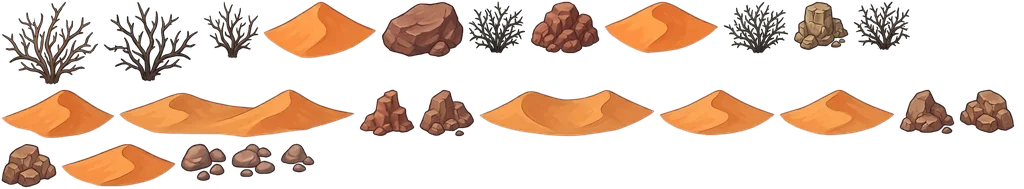
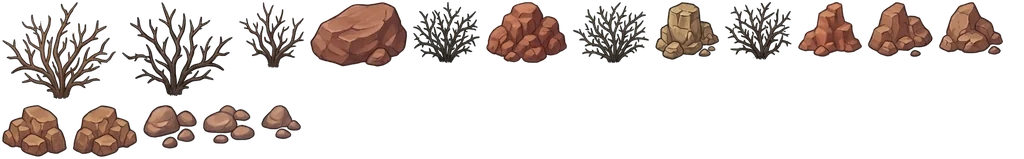
Desert: much emptier (many hexes bare sand), its hills a dune each in the sand's colour with nothing on it; cutter --only and --tint
Claude-Session: https://claude.ai/code/session_014mPV2zL44TcDQaUfxc49uR

diff --git a/tools/anchors.html b/tools/anchors.html
@@ -7,7 +7,7 @@
 <link rel="stylesheet" href="https://fonts.googleapis.com/css2?family=Fredoka:wght@500;600;700&family=Atkinson+Hyperlegible:wght@400;700&display=swap">
 <!-- assets:start -->
 <link rel="stylesheet" href="../css/style.css?v=f3684a6442">
-<script type="importmap">{ "imports": { "../js/actions.js": "../js/actions.js?v=64dcea9537", "../js/alarm.js": "../js/alarm.js?v=b19eb6fe5c", "../js/art.js": "../js/art.js?v=0538f83fe7", "../js/clock.js": "../js/clock.js?v=98108f9b2e", "../js/cloud-config.js": "../js/cloud-config.js?v=28e7772b10", "../js/cloud.js": "../js/cloud.js?v=60da263318", "../js/combat.js": "../js/combat.js?v=b541f39113", "../js/config.js": "../js/config.js?v=28de0d8871", "../js/economy.js": "../js/economy.js?v=ad990d950a", "../js/game-server.js": "../js/game-server.js?v=b3f270680e", "../js/gear-art.js": "../js/gear-art.js?v=bc05d10529", "../js/journey.js": "../js/journey.js?v=94629b9724", "../js/main.js": "../js/main.js?v=143fa79bc5", "../js/map.js": "../js/map.js?v=5133c20042", "../js/packs.js": "../js/packs.js?v=4168625cd2", "../js/reminder.js": "../js/reminder.js?v=51a9cff03b", "../js/scar-guess.js": "../js/scar-guess.js?v=08a9385c75", "../js/sheets.js": "../js/sheets.js?v=63c24fc166", "../js/state.js": "../js/state.js?v=49a32b708b", "../js/sun.js": "../js/sun.js?v=995f47ac66", "../js/sync.js": "../js/sync.js?v=91c094f19d", "../js/teams.js": "../js/teams.js?v=8588948ee6", "../js/ui/account.js": "../js/ui/account.js?v=f0937bffca", "../js/ui/baby-info.js": "../js/ui/baby-info.js?v=98fe3b0bb1", "../js/ui/board.js": "../js/ui/board.js?v=549be40ab6", "../js/ui/breeding.js": "../js/ui/breeding.js?v=57ea23cf7e", "../js/ui/drive.js": "../js/ui/drive.js?v=2e32999583", "../js/ui/fight.js": "../js/ui/fight.js?v=2c017b3e0c", "../js/ui/forge.js": "../js/ui/forge.js?v=957efcb060", "../js/ui/gate.js": "../js/ui/gate.js?v=37490a8cd1", "../js/ui/guide.js": "../js/ui/guide.js?v=ce8bb67718", "../js/ui/header.js": "../js/ui/header.js?v=28904c3f19", "../js/ui/hexdraw.js": "../js/ui/hexdraw.js?v=2b85d0aa49", "../js/ui/incubator.js": "../js/ui/incubator.js?v=58e78f0451", "../js/ui/inventory.js": "../js/ui/inventory.js?v=c00e3eb52f", "../js/ui/journey.js": "../js/ui/journey.js?v=a26c204f5d", "../js/ui/landing.js": "../js/ui/landing.js?v=21d67b8f6d", "../js/ui/maglev.js": "../js/ui/maglev.js?v=14d0e95966", "../js/ui/mapcanvas.js": "../js/ui/mapcanvas.js?v=f12ccda1f9", "../js/ui/nest.js": "../js/ui/nest.js?v=78ba99b2fc", "../js/ui/packs.js": "../js/ui/packs.js?v=b58c488a31", "../js/ui/player.js": "../js/ui/player.js?v=698de3ae4c", "../js/ui/rewards.js": "../js/ui/rewards.js?v=85c3eabb3f", "../js/ui/shop.js": "../js/ui/shop.js?v=97faf7bd8b", "../js/ui/stats.js": "../js/ui/stats.js?v=2d7890d599", "../js/ui/tabs.js": "../js/ui/tabs.js?v=e5fb239ad5", "../js/ui/team.js": "../js/ui/team.js?v=23e16a4df3", "../js/ui/water.js": "../js/ui/water.js?v=725f4b1e60", "../js/ui/words.js": "../js/ui/words.js?v=73dbb15832", "../js/ui/world.js": "../js/ui/world.js?v=0793218d84", "../js/util.js": "../js/util.js?v=41ee3067c8", "../js/vehicles.js": "../js/vehicles.js?v=2a5ea61fa4", "../js/world.js": "../js/world.js?v=6bb3e830c7", "../tools/anchors.js": "../tools/anchors.js?v=14f32bc86a" } }</script>
+<script type="importmap">{ "imports": { "../js/actions.js": "../js/actions.js?v=64dcea9537", "../js/alarm.js": "../js/alarm.js?v=b19eb6fe5c", "../js/art.js": "../js/art.js?v=0538f83fe7", "../js/clock.js": "../js/clock.js?v=98108f9b2e", "../js/cloud-config.js": "../js/cloud-config.js?v=28e7772b10", "../js/cloud.js": "../js/cloud.js?v=60da263318", "../js/combat.js": "../js/combat.js?v=b541f39113", "../js/config.js": "../js/config.js?v=28de0d8871", "../js/economy.js": "../js/economy.js?v=ad990d950a", "../js/game-server.js": "../js/game-server.js?v=b3f270680e", "../js/gear-art.js": "../js/gear-art.js?v=bc05d10529", "../js/journey.js": "../js/journey.js?v=94629b9724", "../js/main.js": "../js/main.js?v=143fa79bc5", "../js/map.js": "../js/map.js?v=5133c20042", "../js/packs.js": "../js/packs.js?v=4168625cd2", "../js/reminder.js": "../js/reminder.js?v=51a9cff03b", "../js/scar-guess.js": "../js/scar-guess.js?v=08a9385c75", "../js/sheets.js": "../js/sheets.js?v=63c24fc166", "../js/state.js": "../js/state.js?v=49a32b708b", "../js/sun.js": "../js/sun.js?v=995f47ac66", "../js/sync.js": "../js/sync.js?v=91c094f19d", "../js/teams.js": "../js/teams.js?v=8588948ee6", "../js/ui/account.js": "../js/ui/account.js?v=f0937bffca", "../js/ui/baby-info.js": "../js/ui/baby-info.js?v=98fe3b0bb1", "../js/ui/board.js": "../js/ui/board.js?v=549be40ab6", "../js/ui/breeding.js": "../js/ui/breeding.js?v=57ea23cf7e", "../js/ui/drive.js": "../js/ui/drive.js?v=2e32999583", "../js/ui/fight.js": "../js/ui/fight.js?v=2c017b3e0c", "../js/ui/forge.js": "../js/ui/forge.js?v=957efcb060", "../js/ui/gate.js": "../js/ui/gate.js?v=37490a8cd1", "../js/ui/guide.js": "../js/ui/guide.js?v=ce8bb67718", "../js/ui/header.js": "../js/ui/header.js?v=28904c3f19", "../js/ui/hexdraw.js": "../js/ui/hexdraw.js?v=2b85d0aa49", "../js/ui/incubator.js": "../js/ui/incubator.js?v=58e78f0451", "../js/ui/inventory.js": "../js/ui/inventory.js?v=c00e3eb52f", "../js/ui/journey.js": "../js/ui/journey.js?v=a26c204f5d", "../js/ui/landing.js": "../js/ui/landing.js?v=21d67b8f6d", "../js/ui/maglev.js": "../js/ui/maglev.js?v=14d0e95966", "../js/ui/mapcanvas.js": "../js/ui/mapcanvas.js?v=73a536916d", "../js/ui/nest.js": "../js/ui/nest.js?v=78ba99b2fc", "../js/ui/packs.js": "../js/ui/packs.js?v=b58c488a31", "../js/ui/player.js": "../js/ui/player.js?v=698de3ae4c", "../js/ui/rewards.js": "../js/ui/rewards.js?v=85c3eabb3f", "../js/ui/shop.js": "../js/ui/shop.js?v=97faf7bd8b", "../js/ui/stats.js": "../js/ui/stats.js?v=2d7890d599", "../js/ui/tabs.js": "../js/ui/tabs.js?v=e5fb239ad5", "../js/ui/team.js": "../js/ui/team.js?v=23e16a4df3", "../js/ui/water.js": "../js/ui/water.js?v=725f4b1e60", "../js/ui/words.js": "../js/ui/words.js?v=73dbb15832", "../js/ui/world.js": "../js/ui/world.js?v=0793218d84", "../js/util.js": "../js/util.js?v=41ee3067c8", "../js/vehicles.js": "../js/vehicles.js?v=2a5ea61fa4", "../js/world.js": "../js/world.js?v=6bb3e830c7", "../tools/anchors.js": "../tools/anchors.js?v=14f32bc86a" } }</script>
 <script type="module" src="../tools/anchors.js?v=14f32bc86a"></script>
 <!-- assets:end -->
 <style>

diff --git a/index.html b/index.html
@@ -19,7 +19,7 @@ addEventListener('load', () => setTimeout(() => sessionStorage.removeItem('nest-
 </script>
 <!-- assets:start -->
 <link rel="stylesheet" href="./css/style.css?v=f3684a6442">
-<script type="importmap">{ "imports": { "./js/actions.js": "./js/actions.js?v=64dcea9537", "./js/alarm.js": "./js/alarm.js?v=b19eb6fe5c", "./js/art.js": "./js/art.js?v=0538f83fe7", "./js/clock.js": "./js/clock.js?v=98108f9b2e", "./js/cloud-config.js": "./js/cloud-config.js?v=28e7772b10", "./js/cloud.js": "./js/cloud.js?v=60da263318", "./js/combat.js": "./js/combat.js?v=b541f39113", "./js/config.js": "./js/config.js?v=28de0d8871", "./js/economy.js": "./js/economy.js?v=ad990d950a", "./js/game-server.js": "./js/game-server.js?v=b3f270680e", "./js/gear-art.js": "./js/gear-art.js?v=bc05d10529", "./js/journey.js": "./js/journey.js?v=94629b9724", "./js/main.js": "./js/main.js?v=143fa79bc5", "./js/map.js": "./js/map.js?v=5133c20042", "./js/packs.js": "./js/packs.js?v=4168625cd2", "./js/reminder.js": "./js/reminder.js?v=51a9cff03b", "./js/scar-guess.js": "./js/scar-guess.js?v=08a9385c75", "./js/sheets.js": "./js/sheets.js?v=63c24fc166", "./js/state.js": "./js/state.js?v=49a32b708b", "./js/sun.js": "./js/sun.js?v=995f47ac66", "./js/sync.js": "./js/sync.js?v=91c094f19d", "./js/teams.js": "./js/teams.js?v=8588948ee6", "./js/ui/account.js": "./js/ui/account.js?v=f0937bffca", "./js/ui/baby-info.js": "./js/ui/baby-info.js?v=98fe3b0bb1", "./js/ui/board.js": "./js/ui/board.js?v=549be40ab6", "./js/ui/breeding.js": "./js/ui/breeding.js?v=57ea23cf7e", "./js/ui/drive.js": "./js/ui/drive.js?v=2e32999583", "./js/ui/fight.js": "./js/ui/fight.js?v=2c017b3e0c", "./js/ui/forge.js": "./js/ui/forge.js?v=957efcb060", "./js/ui/gate.js": "./js/ui/gate.js?v=37490a8cd1", "./js/ui/guide.js": "./js/ui/guide.js?v=ce8bb67718", "./js/ui/header.js": "./js/ui/header.js?v=28904c3f19", "./js/ui/hexdraw.js": "./js/ui/hexdraw.js?v=2b85d0aa49", "./js/ui/incubator.js": "./js/ui/incubator.js?v=58e78f0451", "./js/ui/inventory.js": "./js/ui/inventory.js?v=c00e3eb52f", "./js/ui/journey.js": "./js/ui/journey.js?v=a26c204f5d", "./js/ui/landing.js": "./js/ui/landing.js?v=21d67b8f6d", "./js/ui/maglev.js": "./js/ui/maglev.js?v=14d0e95966", "./js/ui/mapcanvas.js": "./js/ui/mapcanvas.js?v=f12ccda1f9", "./js/ui/nest.js": "./js/ui/nest.js?v=78ba99b2fc", "./js/ui/packs.js": "./js/ui/packs.js?v=b58c488a31", "./js/ui/player.js": "./js/ui/player.js?v=698de3ae4c", "./js/ui/rewards.js": "./js/ui/rewards.js?v=85c3eabb3f", "./js/ui/shop.js": "./js/ui/shop.js?v=97faf7bd8b", "./js/ui/stats.js": "./js/ui/stats.js?v=2d7890d599", "./js/ui/tabs.js": "./js/ui/tabs.js?v=e5fb239ad5", "./js/ui/team.js": "./js/ui/team.js?v=23e16a4df3", "./js/ui/water.js": "./js/ui/water.js?v=725f4b1e60", "./js/ui/words.js": "./js/ui/words.js?v=73dbb15832", "./js/ui/world.js": "./js/ui/world.js?v=0793218d84", "./js/util.js": "./js/util.js?v=41ee3067c8", "./js/vehicles.js": "./js/vehicles.js?v=2a5ea61fa4", "./js/world.js": "./js/world.js?v=6bb3e830c7", "./tools/anchors.js": "./tools/anchors.js?v=14f32bc86a" } }</script>
+<script type="importmap">{ "imports": { "./js/actions.js": "./js/actions.js?v=64dcea9537", "./js/alarm.js": "./js/alarm.js?v=b19eb6fe5c", "./js/art.js": "./js/art.js?v=0538f83fe7", "./js/clock.js": "./js/clock.js?v=98108f9b2e", "./js/cloud-config.js": "./js/cloud-config.js?v=28e7772b10", "./js/cloud.js": "./js/cloud.js?v=60da263318", "./js/combat.js": "./js/combat.js?v=b541f39113", "./js/config.js": "./js/config.js?v=28de0d8871", "./js/economy.js": "./js/economy.js?v=ad990d950a", "./js/game-server.js": "./js/game-server.js?v=b3f270680e", "./js/gear-art.js": "./js/gear-art.js?v=bc05d10529", "./js/journey.js": "./js/journey.js?v=94629b9724", "./js/main.js": "./js/main.js?v=143fa79bc5", "./js/map.js": "./js/map.js?v=5133c20042", "./js/packs.js": "./js/packs.js?v=4168625cd2", "./js/reminder.js": "./js/reminder.js?v=51a9cff03b", "./js/scar-guess.js": "./js/scar-guess.js?v=08a9385c75", "./js/sheets.js": "./js/sheets.js?v=63c24fc166", "./js/state.js": "./js/state.js?v=49a32b708b", "./js/sun.js": "./js/sun.js?v=995f47ac66", "./js/sync.js": "./js/sync.js?v=91c094f19d", "./js/teams.js": "./js/teams.js?v=8588948ee6", "./js/ui/account.js": "./js/ui/account.js?v=f0937bffca", "./js/ui/baby-info.js": "./js/ui/baby-info.js?v=98fe3b0bb1", "./js/ui/board.js": "./js/ui/board.js?v=549be40ab6", "./js/ui/breeding.js": "./js/ui/breeding.js?v=57ea23cf7e", "./js/ui/drive.js": "./js/ui/drive.js?v=2e32999583", "./js/ui/fight.js": "./js/ui/fight.js?v=2c017b3e0c", "./js/ui/forge.js": "./js/ui/forge.js?v=957efcb060", "./js/ui/gate.js": "./js/ui/gate.js?v=37490a8cd1", "./js/ui/guide.js": "./js/ui/guide.js?v=ce8bb67718", "./js/ui/header.js": "./js/ui/header.js?v=28904c3f19", "./js/ui/hexdraw.js": "./js/ui/hexdraw.js?v=2b85d0aa49", "./js/ui/incubator.js": "./js/ui/incubator.js?v=58e78f0451", "./js/ui/inventory.js": "./js/ui/inventory.js?v=c00e3eb52f", "./js/ui/journey.js": "./js/ui/journey.js?v=a26c204f5d", "./js/ui/landing.js": "./js/ui/landing.js?v=21d67b8f6d", "./js/ui/maglev.js": "./js/ui/maglev.js?v=14d0e95966", "./js/ui/mapcanvas.js": "./js/ui/mapcanvas.js?v=73a536916d", "./js/ui/nest.js": "./js/ui/nest.js?v=78ba99b2fc", "./js/ui/packs.js": "./js/ui/packs.js?v=b58c488a31", "./js/ui/player.js": "./js/ui/player.js?v=698de3ae4c", "./js/ui/rewards.js": "./js/ui/rewards.js?v=85c3eabb3f", "./js/ui/shop.js": "./js/ui/shop.js?v=97faf7bd8b", "./js/ui/stats.js": "./js/ui/stats.js?v=2d7890d599", "./js/ui/tabs.js": "./js/ui/tabs.js?v=e5fb239ad5", "./js/ui/team.js": "./js/ui/team.js?v=23e16a4df3", "./js/ui/water.js": "./js/ui/water.js?v=725f4b1e60", "./js/ui/words.js": "./js/ui/words.js?v=73dbb15832", "./js/ui/world.js": "./js/ui/world.js?v=0793218d84", "./js/util.js": "./js/util.js?v=41ee3067c8", "./js/vehicles.js": "./js/vehicles.js?v=2a5ea61fa4", "./js/world.js": "./js/world.js?v=6bb3e830c7", "./tools/anchors.js": "./tools/anchors.js?v=14f32bc86a" } }</script>
 <script type="module" src="./js/main.js?v=143fa79bc5"></script>
 <!-- assets:end -->
 </head>

diff --git a/js/ui/mapcanvas.js b/js/ui/mapcanvas.js
@@ -223,8 +223,9 @@ const hasTexture = biome => (rank(biome) >= 0 && textures.get(`${biome}-0`)?.nat
 // whole) standing in each hex, every one wholly inside it, so nothing crosses into a neighbour; more of
 // them the denser the hex (densityOf). Each hex shows one of a few arrangements made once (LAYOUTS for
 // each density, also mirrored).
-// (hills: the sheet of painted hills a biome's hills take, 'hills' unless said; 'none': shown by their light alone)
-const PLANTED = { desert: { floor: '#dcb77a', size: 15, counts: [5, 3, 1], hills: 'none' }, floodplain: { floor: '#6f9a55', size: 10, counts: [14, 8, 3] }, coast: { floor: '#d8cba0', size: 9, counts: [10, 5, 2] }, subtropical: { floor: '#3a4426', size: 13, counts: [34, 20, 10, 4] }, scrub: { floor: '#a89a62', size: 10, counts: [12, 6, 2], hills: 'scrub-hills' }, swamp: { floor: '#56704a', size: 14, counts: [14, 8, 4], span: 4.5 }, meadow: { floor: '#a3bd74', size: 10, counts: [12, 6, 2] }, forest: { floor: '#3f5531', size: 12, counts: [40, 22, 12, 6, 2] }, hills: {}, 'scrub-hills': {} };
+// (hills: the sheet of painted hills a biome's hills take, 'hills' unless said ('none': shown by their light
+// alone); hillShare: of its hill hexes, how many have one (0.45 unless said); bareHills: nothing else on them)
+const PLANTED = { desert: { floor: '#dcb77a', size: 15, counts: [1, 1, 0], hills: 'desert-hills', hillShare: 1, bareHills: true }, floodplain: { floor: '#6f9a55', size: 10, counts: [14, 8, 3] }, coast: { floor: '#d8cba0', size: 9, counts: [10, 5, 2] }, subtropical: { floor: '#3a4426', size: 13, counts: [34, 20, 10, 4] }, scrub: { floor: '#a89a62', size: 10, counts: [12, 6, 2], hills: 'scrub-hills' }, swamp: { floor: '#56704a', size: 14, counts: [14, 8, 4], span: 4.5 }, meadow: { floor: '#a3bd74', size: 10, counts: [12, 6, 2] }, forest: { floor: '#3f5531', size: 12, counts: [40, 22, 12, 6, 2] }, hills: {}, 'scrub-hills': {}, 'desert-hills': {} };
 const floors = new WeakMap();
 const floorPattern = (ctx, biome, img) => { let m = floors.get(ctx); if (!m) floors.set(ctx, m = new Map()); if (!m.has(biome)) m.set(biome, ctx.createPattern(img, 'repeat')); return m.get(biome); };
 const LAYOUTS = 10, LAYOUT_PX = 5;   // arrangements a density, pixels a map unit they are made at
@@ -447,8 +448,10 @@ export function drawHexes(ctx, seed, hexes, known, edge = GRID, detail = 'full',
   textured.sort((a, b) => rank(groundName(a.cell)) - rank(groundName(b.cell)));
   for (const { h, x, y, cell, tex, planted, dense } of textured) {
     if (planted) {
-      // (a painted hill in about half the hill hexes; the rest show theirs by their light)
-      const hills = cell.terrain === 'hill' && cornerRand(h[0], h[1], 84) < 0.45 && plantsOf(PLANTED[groundName(cell)].hills || 'hills');
+      // (a painted hill in about half the hill hexes, or as many as the biome says; the rest show theirs by
+      // their light)
+      const P = PLANTED[groundName(cell)];
+      const hills = cell.terrain === 'hill' && cornerRand(h[0], h[1], 84) < (P.hillShare ?? 0.45) && plantsOf(P.hills || 'hills');
       // (on a hill, only a few trees, so the hill shows)
       const L = planted, lay = layoutOf(groundName(cell), L, hills ? Math.max(dense, PLANTED[groundName(cell)].counts.length - 2) : dense, Math.floor(cornerRand(h[0], h[1], 81) * LAYOUTS));
       ctx.save();
@@ -458,7 +461,8 @@ export function drawHexes(ctx, seed, hexes, known, edge = GRID, detail = 'full',
         ctx.drawImage(hl.canvas, -hl.w / 2, -hl.h / 2, hl.w, hl.h);
       }
       if (cornerRand(h[0], h[1], 82) < 0.5) ctx.scale(-1, 1);
-      ctx.drawImage(lay.canvas, -lay.w / 2, -lay.h / 2, lay.w, lay.h);
+      // (a bare hill, as a desert's dune, has nothing on it)
+      if (!(hills && P.bareHills)) ctx.drawImage(lay.canvas, -lay.w / 2, -lay.h / 2, lay.w, lay.h);
       ctx.restore();
       continue;
     }

diff --git a/scripts/plants.py b/scripts/plants.py
@@ -17,6 +17,8 @@ ap.add_argument('black')
 ap.add_argument('biome')
 ap.add_argument('--big', type=int, default=72, help='how many pixels across the median single plant is kept at')
 ap.add_argument('--skip', nargs='*', default=[], help='x,y points (white sheet pixels) of pieces to leave out')
+ap.add_argument('--only', nargs='*', default=[], help='x,y points of the only pieces to keep')
+ap.add_argument('--tint', help='a colour (#rrggbb) the pieces are moved to, by their average')
 ap.add_argument('--min', type=float, default=0.01, help='pieces smaller than this share of the biggest are left out (loose leaves)')
 a = ap.parse_args()
 
@@ -64,10 +66,18 @@ boxes = [b for b in ndimage.find_objects(pieces)]
 sizes = ndimage.sum(np.ones_like(alpha), pieces, range(1, n + 1))
 keep = [i for i in range(n) if sizes[i] > sizes.max() * a.min]
 # (the pieces asked to be left out: the ones at these points, or nearest them)
-for xy in a.skip:
+def at(xy):
     x, y = map(int, xy.split(','))
-    near = min(keep, key=lambda i: 0 if pieces[min(y, pieces.shape[0] - 1), min(x, pieces.shape[1] - 1)] == i + 1 else (boxes[i][0].start + boxes[i][0].stop) ** 2 / 4 - 0 + ((boxes[i][0].start + boxes[i][0].stop) / 2 - y) ** 2 + ((boxes[i][1].start + boxes[i][1].stop) / 2 - x) ** 2)
-    keep.remove(near)
+    return min(keep, key=lambda i: 0 if pieces[min(y, pieces.shape[0] - 1), min(x, pieces.shape[1] - 1)] == i + 1 else 1 + ((boxes[i][0].start + boxes[i][0].stop) / 2 - y) ** 2 + ((boxes[i][1].start + boxes[i][1].stop) / 2 - x) ** 2)
+if a.only:
+    keep = sorted({at(xy) for xy in a.only})
+for xy in a.skip:
+    keep.remove(at(xy))
+# (tinted: the paint of the pieces kept moved, channel by channel, so their average is the colour)
+if a.tint:
+    want = np.float32([int(a.tint[i:i + 2], 16) for i in (1, 3, 5)])
+    solid = np.isin(pieces, [i + 1 for i in keep]) & (alpha > 0.5)
+    pic[..., :3] = np.clip(pic[..., :3] * (want / np.maximum(pic[..., :3][solid].mean(0), 1)), 0, 255)
 # (the median single plant: pieces about as wide as tall, the smaller half of them by area)
 widths = sorted(max(boxes[i][0].stop - boxes[i][0].start, boxes[i][1].stop - boxes[i][1].start) for i in keep)
 scale = a.big / widths[len(widths) // 2]
